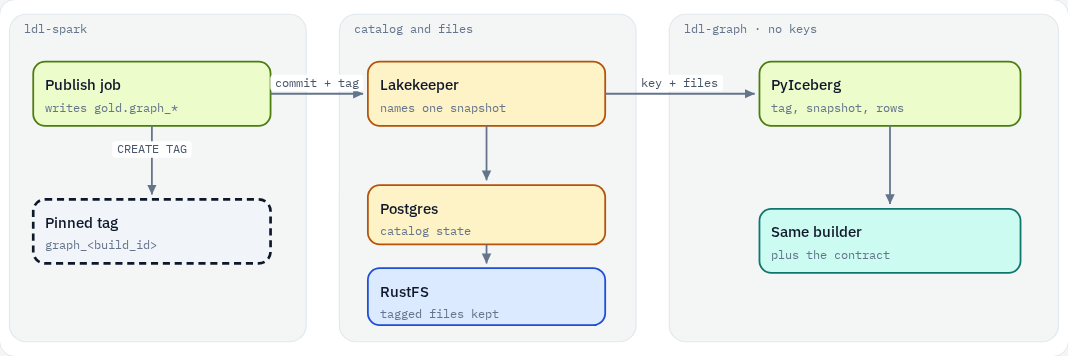
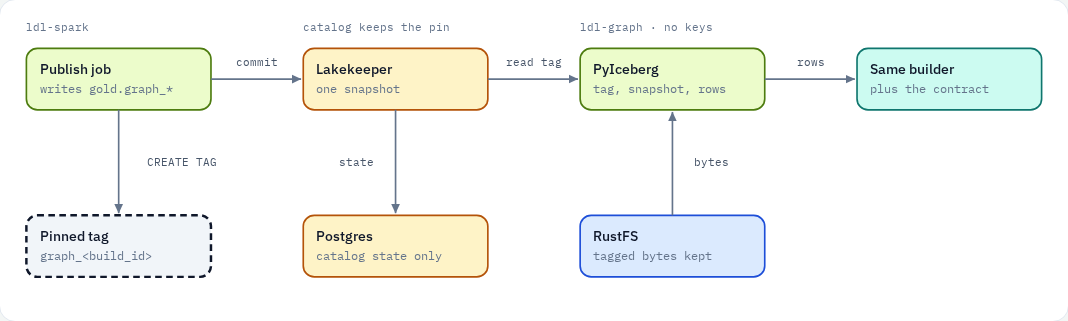
docs(graph): redraw figures onto an even grid
Arrows follow the source: the twin joins the builder, Lakekeeper
does not feed RustFS, and event edges leave Subscription.

diff --git a/docs/graph/figures.md b/docs/graph/figures.md
@@ -6,19 +6,19 @@ Counts are seed 42: 40,204 nodes, 130,366 edges.
 
 ## System
 
-Gold in, a graph out. Spark pins 11 inputs and tags every table. PyIceberg holds no keys. Parquet is the graph. LadybugDB is the copy you can delete. The dashed box is the pandas twin, the no-Docker path, and it joins the builder.
+Gold in, a graph out. The dashed pandas twin joins the builder with the same numbers. Spark commits through Lakekeeper and writes bytes to RustFS. PyIceberg reads the tag, then those bytes, and holds no keys. Parquet is the graph. LadybugDB is the copy. A strict pass promotes it to the tools.
 
 ![System: gold, build, then typed tools](figures/system.png)
 
 ## Iceberg tags
 
-Read the tag, not the clock. The publish job writes `gold.graph_*` and creates `graph_<build_id>`. It never moves an existing tag. The reader checks the tag, the snapshot id and the row count, then runs the same builder.
+Read the tag, not the clock. The publish job writes `gold.graph_*` and creates `graph_<build_id>`. Lakekeeper keeps that pin. Postgres holds catalog state and does not feed the files. PyIceberg reads the tag, then the bytes on RustFS, and runs the same builder.
 
 ![Tags: publish, catalog, then the reader](figures/tags.png)
 
 ## Schema
 
-Ten node types and eleven dated edges. Each event box names its edge. `SIMILAR_TO` is ten nearest renewals on the same plan, not a social graph. 14,862 of 34,348 event edges fall after their renewal’s T-7. They stay in the graph. No tool serves them for that decision.
+Ten node types and eleven dated edges. Arrows leave the source: Subscription to its events, its renewal and its incidents; Renewal to Plan, to PricingChange, and to other renewals on the same plan. `SIMILAR_TO` is similar features, not a social graph. 14,862 of 34,348 event edges fall after their renewal’s T-7. They stay in the graph. No tool serves them for that decision.
 
 ![Schema: events, subscription, renewal, plan](figures/schema.png)
 
